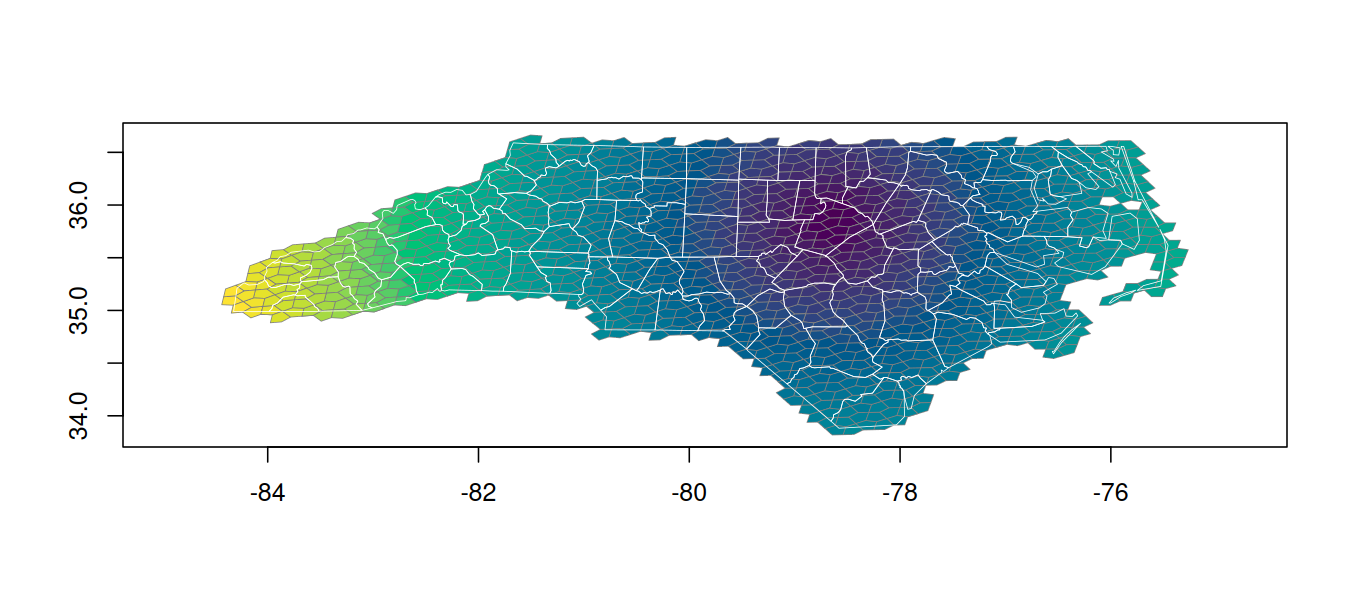
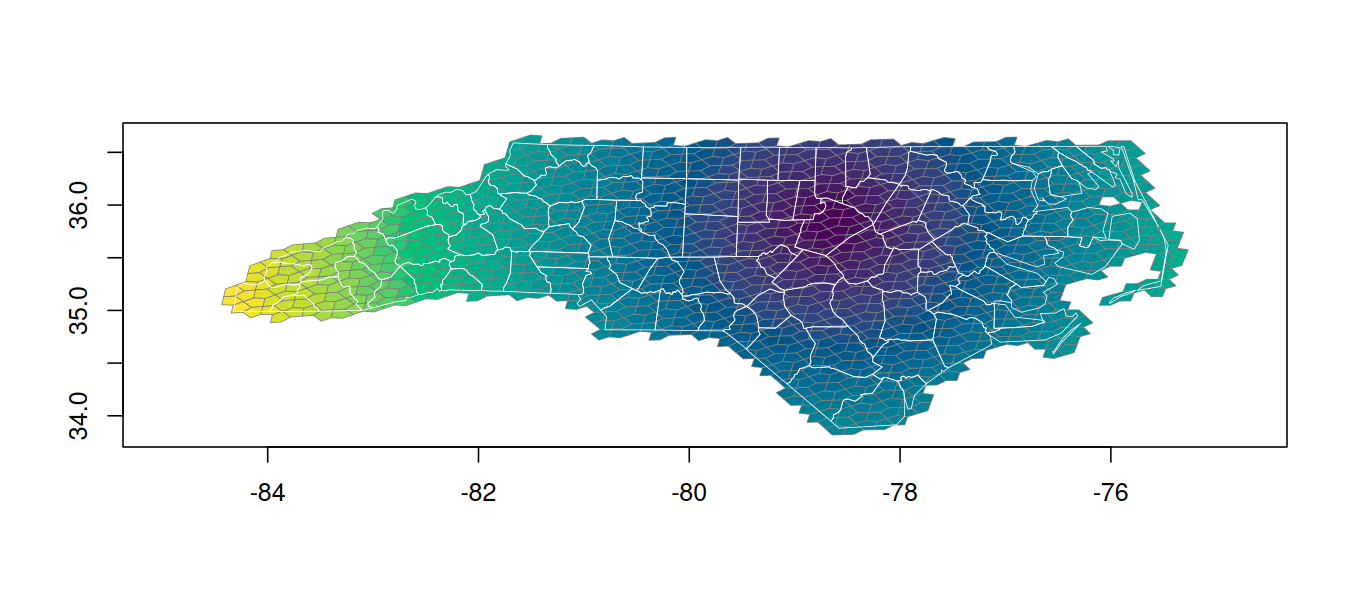
README: transform to WGS84 and drop duplicate border cells

diff --git a/README.md b/README.md
@@ -76,10 +76,11 @@ counties are filled with cells, coloured by their distance from Wake
 County’s centroid:
 
 ``` r
-nc <- sf::read_sf(system.file("shape/nc.shp", package = "sf"))
+nc <- sf::read_sf(system.file("shape/nc.shp", package = "sf")) |>
+  sf::st_transform(4326)
 nc$a5 <- a5_polygon_to_cells(nc, resolution = 9, containment = "overlapping")
 
-cells <- a5_uncompact(nc$a5)
+cells <- unique(a5_uncompact(nc$a5))
 wake <- sf::st_coordinates(sf::st_centroid(nc$geometry[nc$NAME == "Wake"]))
 centre <- a5_lonlat_to_cell(wake[, 1], wake[, 2], resolution = 9)
 dist <- a5_cell_distance(centre, cells, units = "km")
